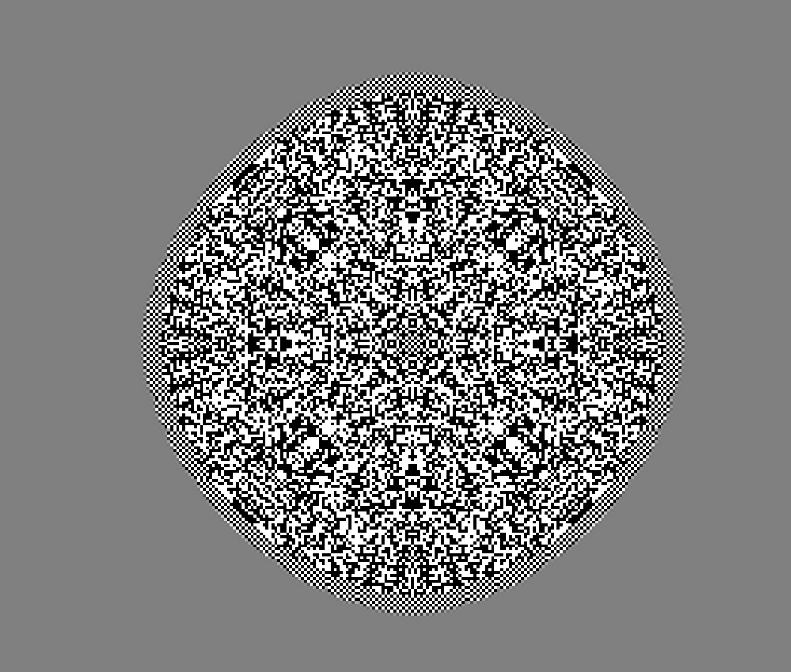
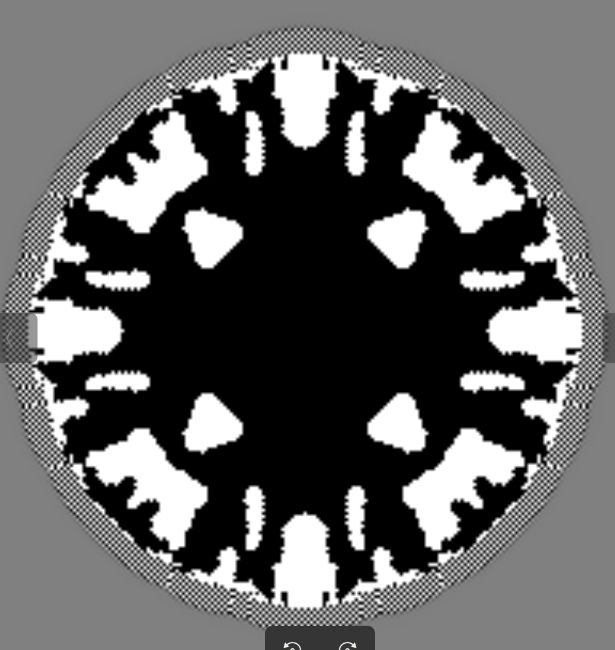
my model : time gradient

diff --git a/catlib/models/my_model/seismic_waves_sim.c b/catlib/models/my_model/seismic_waves_sim.c
@@ -8,10 +8,37 @@
 int propogation(void *n)
 {
     cellBody *cell = (cellBody *)n;
+    cellBody left_cell = cell[7];
+    cellBody right_cell = cell[3];
+    cellBody up_cell = cell[1];
+    cellBody down_cell = cell[5];
+
     int sum = -cell[0].compression;
-    for (int i = 1; i <= 8; i+=2)
+    int compression_direction_num = 1;
+
+    if (left_cell.time_iteration < cell->time_iteration)
     {
-        sum += cell[i].compression / 4;
+        sum += left_cell.compression / 4; // пока что делим на 4 так как непонятно как именно распределять энергию (пропорционально сжатиию?)
+    }
+    if (right_cell.time_iteration < cell->time_iteration)
+    {
+        sum += right_cell.compression / 4;
+    }
+    if (up_cell.time_iteration < cell->time_iteration)
+    {
+        sum += up_cell.compression / 4;
+    }
+    if (down_cell.time_iteration < cell->time_iteration)
+    {
+        sum += down_cell.compression / 4;
+    }
+    // for (int i = 1; i <= 8; i += 2)
+    // {
+    //     sum += cell[i].compression / 4;
+    // }
+    if (sum > 0) // если в клетку пришло сжатие, то волна движется в сторону этой клетки
+    {
+        cell[0].time_iteration = CAT_GetIterationsDone();
     }
     cell[0].compression = sum;
     return 0;

diff --git a/catlib/models/my_model/seismic_waves_prep.c b/catlib/models/my_model/seismic_waves_prep.c
@@ -1,6 +1,7 @@
 #include <stdio.h>
 #include <stdlib.h>
 #include <time.h>
+#include <limits.h>
 #include "catlib.h"
 #include "seismic_waves.h"
 
@@ -12,8 +13,8 @@ int main(int argc, char *argv[])
     const double Kl = 1.0;
 
     CAT_Coord coordMax;
-    coordMax.x = 1023.0;
-    coordMax.y = 1023.0;
+    coordMax.x = 511.0;
+    coordMax.y = 511.0;
 
     CAT_Coord realCoord = CAT_InitPreprocessor(cellSize, globalSize, Kl, coordMax);
 
@@ -41,13 +42,14 @@ int main(int argc, char *argv[])
         {
             cell.velocity = 340;
             cell.compression = 0;
-            cell.time_iteration = 0;
+            cell.time_iteration = INT32_MAX;
 
             int dx = i - center_i;
             int dy = j - center_j;
             if (dx * dx + dy * dy <= radius * radius)
             {
                 cell.compression = 30000;
+                cell.time_iteration = 0;
             }
             CAT_PutCell((char *)&cell, i, j);
         }

diff --git a/catlib/models/my_model/README.md b/catlib/models/my_model/README.md
@@ -1,3 +1,3 @@
 ![alt text](image.png)
 
-тут уже использовалась окрестность фон Неймана, волна больше похожа на круговую 
+попробовала сделать направлеенное распространени волны (по градиенту времени).
